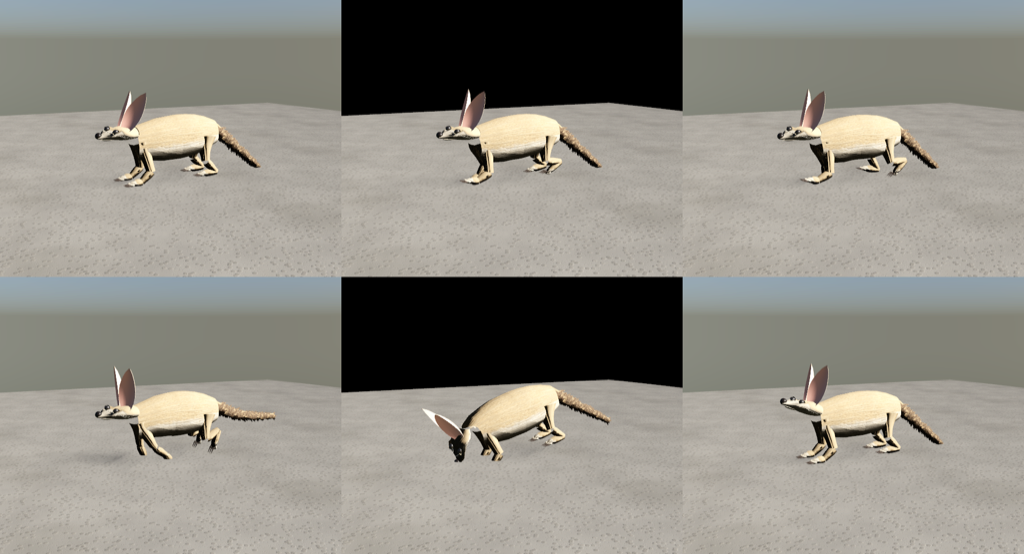
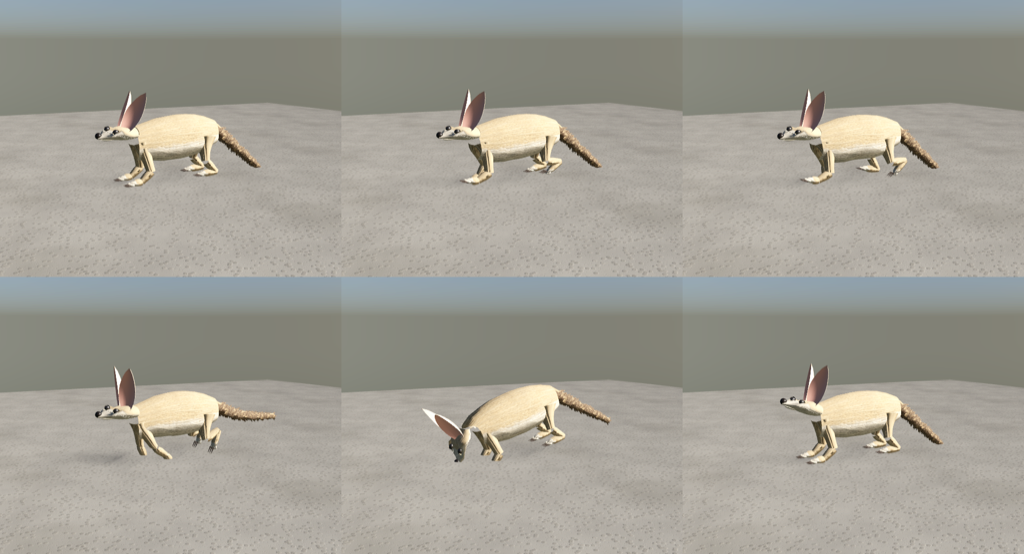
Skinned pets: vertex AO off for skinned materials (IBL-only black coat), shared preview sky, skinned material test

diff --git a/Sources/RealKit/MaterialCache.swift b/Sources/RealKit/MaterialCache.swift
@@ -87,6 +87,19 @@ public final class RealMaterialCache {
 
     /// `far`: variant for distant LODs without vertex wind and leaf translucency. Specs without either share
     /// the near material.
+    /// Material for meshes without texcoord 1 (skinned parts): vertex AO reads as 1, wind off.
+    public func skinnedMaterialAsync(_ key: MaterialKey) async -> any RealityKit.Material {
+        let gk = "\(key)#skin"
+        if let m = graph[gk] { return m }
+        let s = spec(key)
+        guard useShaderGraph, s.program != nil, s.mode != .emissive else { return material(key) }
+        do {
+            let m = try await buildGraph(s, far: true, vertexAO: false)
+            graph[gk] = m
+            return m
+        } catch { return material(key) }
+    }
+
     public func materialAsync(_ key: MaterialKey, far: Bool) async -> any RealityKit.Material {
         let far = far && hasFarVariant(key)
         let gk = far ? "\(key)#far" : key
@@ -310,7 +323,7 @@ public final class RealMaterialCache {
         return m
     }
 
-    private func buildGraph(_ s: MaterialSpec, jitter: SIMD2<Float> = .zero, cook: Bool = false, far: Bool = false) async throws -> any RealityKit.Material {
+    private func buildGraph(_ s: MaterialSpec, jitter: SIMD2<Float> = .zero, cook: Bool = false, far: Bool = false, vertexAO: Bool = true) async throws -> any RealityKit.Material {
         guard let t = try textures(s) else { throw TextureSynth.SynthError.encode }
         var o = RealShaderOptions()
         let perf = RealPerformance.active
@@ -321,6 +334,7 @@ public final class RealMaterialCache {
         o.transparent = s.mode == .transparent
         o.flowNormals = s.mode == .transparent && s.flow > 0 && perf.waterFlow
         o.wet = !o.transparent && !o.cook && s.mode != .emissive
+        o.vertexAO = vertexAO
         o.water = o.fog && RealAtmosphere.waterDensity > 0
         // Caustics only on solid, still surfaces (bed, rocks, wood); foliage and cards skip the two ridge fields.
         o.caustics = o.water && RealAtmosphere.waterCaustics > 0 && !o.wind && !o.cutout && !o.transparent

diff --git a/Tests/AnimalKitTests/SkinnedTests.swift b/Tests/AnimalKitTests/SkinnedTests.swift
@@ -1,0 +1,35 @@
+import XCTest
+import RealityKit
+@testable import AnimalKit
+import AnimalCore
+import RealKit
+
+/// Skinned pets: every part carries normals and a material with a bound albedo texture and vertex AO off.
+final class SkinnedTests: XCTestCase {
+    @MainActor func testSkinnedSquirrelMaterialsAndNormals() async throws {
+        RealKitSetup.register()
+        let g = try await GroundFactory.puppet(.easternGraySquirrel)
+        XCTAssertTrue(g.built.skinned)
+        let skin = try XCTUnwrap(g.holder.findEntity(named: "skin") as? ModelEntity)
+        let model = try XCTUnwrap(skin.model)
+        XCTAssertFalse(model.materials.isEmpty)
+        XCTAssertFalse(skin.jointNames.isEmpty)
+        for m in model.materials {
+            if let sg = m as? ShaderGraphMaterial {
+                guard case .textureResource? = sg.getParameter(name: "BaseColor") else { return XCTFail("BaseColor texture not bound") }
+            } else if let pbr = m as? PhysicallyBasedMaterial {
+                XCTAssertNotNil(pbr.baseColor.texture, "PBR baseColor texture not bound")
+            }
+        }
+        var parts = 0
+        for mdl in model.mesh.contents.models {
+            for p in mdl.parts {
+                parts += 1
+                XCTAssertNotNil(p.normals, "part \(p.id) has no normals")
+                XCTAssertNotNil(p.jointInfluences, "part \(p.id) has no joint influences")
+                XCTAssertLessThan(p.materialIndex, model.materials.count)
+            }
+        }
+        XCTAssertGreaterThan(parts, 0)
+    }
+}

diff --git a/Sources/RealKit/ShaderGraph.swift b/Sources/RealKit/ShaderGraph.swift
@@ -86,6 +86,9 @@ public struct RealShaderOptions: Hashable, Sendable {
     public var cutout = false
     public var metallicMap = false
     public var aoMap = true
+    /// Read baked vertex AO from texcoord 1. Off for meshes without uv1 (skinned MeshResource parts),
+    /// which otherwise read AO 0 and lose all image-based light.
+    public var vertexAO = true
     /// Vertex wind driven by uv1 = (weight, phase).
     public var wind = false
     /// Fake subsurface: leaves glow with transmitted sun when seen against it.
@@ -221,8 +224,11 @@ public enum RealShaderGraph {
         }
         var tint = g.node("ND_multiply_color3", [("color3f", "in1", rgb), ("color3f", "in2", g.param("Tint"))], out: "color3f")
         // Baked vertex AO (uv2.x): darkens albedo in crowns/crevices, and multiplies texture AO below.
-        let uv1s = g.node("ND_texcoord_vector2", [("int", "index", "1")], out: "float2")
-        let vao = g.separate("ND_separate2_vector2", "float2", uv1s, ["outx", "outy"])[1]
+        let vao: String
+        if o.vertexAO {
+            let uv1s = g.node("ND_texcoord_vector2", [("int", "index", "1")], out: "float2")
+            vao = g.separate("ND_separate2_vector2", "float2", uv1s, ["outx", "outy"])[1]
+        } else { vao = "1" }
         let aoTint = g.node("ND_mix_float", [("float", "fg", vao), ("float", "bg", "1"), ("float", "mix", "0.4")], out: "float")
         tint = g.node("ND_multiply_color3FA", [("color3f", "in1", tint), ("float", "in2", aoTint)], out: "color3f")
         var topMask: String?

diff --git a/Sources/RealKit/SkinUpload.swift b/Sources/RealKit/SkinUpload.swift
@@ -42,20 +42,7 @@ public extension Skin {
         contents.instances = MeshInstanceCollection([MeshResource.Instance(id: "i", model: "m")])
         let mesh = try await MeshResource(from: contents)
         var mats: [any RealityKit.Material] = []
-        var lifts = 0
-        for k in keys {
-            var m = await cache.materialAsync(k)
-            // Skinned parts cannot carry texcoord 1, so the graph reads baked AO as 0 (albedo x 0.6).
-            // Lift Tint to cancel it; surfaces here have no baked AO.
-            if var g = m as? ShaderGraphMaterial, case .color(let c)? = g.getParameter(name: "Tint"), let cc = c.components {
-                let k: CGFloat = 1 / 0.6
-                let lifted = CGColor(colorSpace: c.colorSpace ?? CGColorSpace(name: CGColorSpace.extendedLinearSRGB)!,
-                                     components: [cc[0] * k, cc[1] * k, cc[2] * k, cc.count > 3 ? cc[3] : 1])!
-                try? g.setParameter(name: "Tint", value: .color(lifted)); m = g; lifts += 1
-            }
-            mats.append(m)
-        }
-        if ProcessInfo.processInfo.environment["SKIN_DEBUG"] != nil { print("skin tint lifted \(lifts)/\(keys.count)", mats.map { "\(type(of: $0))" }) }
+        for k in keys { mats.append(await cache.skinnedMaterialAsync(k)) }
         let e = ModelEntity(mesh: mesh, materials: mats)
         e.name = name
         return e

diff --git a/Sources/animalpreview/main.swift b/Sources/animalpreview/main.swift
@@ -89,6 +89,8 @@ func run() async throws {
     args.removeAll()
     RealityHD_setup()
     let sheetPoses: [(String, Float)] = [("idle", 0), ("walk", 0.1), ("trot", 0.1), ("run", 0.2), ("graze", 0.5), ("alert", 0)]
+    // One environment for every frame: a fresh sky per frame sometimes rendered before its texture landed (black sky).
+    let env = try RealEnvironment(.afternoon, skybox: true)
     for (k, variant) in targets {
       var sheetFrames: [CGImage] = []
       var sheetBase = k.rawValue
@@ -128,7 +130,6 @@ func run() async throws {
             holder = g.holder; comHeight = g.built.comHeight; length = a.bodyLength + a.headLength + a.tailLength * 0.5 + (a.antlers == .elk ? 0.5 : 0); tris = g.built.triangleCount
         }
         var frames: [CGImage] = []
-        let env = try RealEnvironment(.afternoon, skybox: true)
         let preview = try RealPreview(environment: env)
         let root = Entity()
         root.addChild(holder)

diff --git a/notes/visual-log.md b/notes/visual-log.md
@@ -85,3 +85,14 @@ parts. Eyes now show the clearcoat highlight. Bluebird top issue: lacquered blue
 roughness 0.42 to 0.55, specular 0.8 to 0.5. Fennec top issue: dark ears (fixed by the rigid split).
 Iter 3. Tail tip coat range trimmed (u to 0.21) so tips frost instead of whiting out.
 Open: leg undersides dark in shadow; tail cards opaque (no cutout fur program).
+
+## Pets pass 5: black skinned squirrel under IBL only
+
+Cause: skinned MeshResource parts carry no texcoord 1, so the ShaderGraph read vertex AO as 0 and set
+`ambientOcclusion = ao * 0`, which removes all image-based light. Mixed reality with IBL only rendered
+the coat black; the preview sun hid it (albedo x0.6 only).
+Fix: `RealShaderOptions.vertexAO` (off reads AO as 1), `RealMaterialCache.skinnedMaterialAsync` (far
+variant, no wind, vertexAO off) used by `Skin.modelEntityAsync`; Tint lift removed.
+Test: `SkinnedTests.testSkinnedSquirrelMaterialsAndNormals` (BaseColor texture bound, normals and joint
+influences on every part, material index in range).
+Black-sky frame: animalpreview built a new sky per frame; one shared `RealEnvironment` now.
